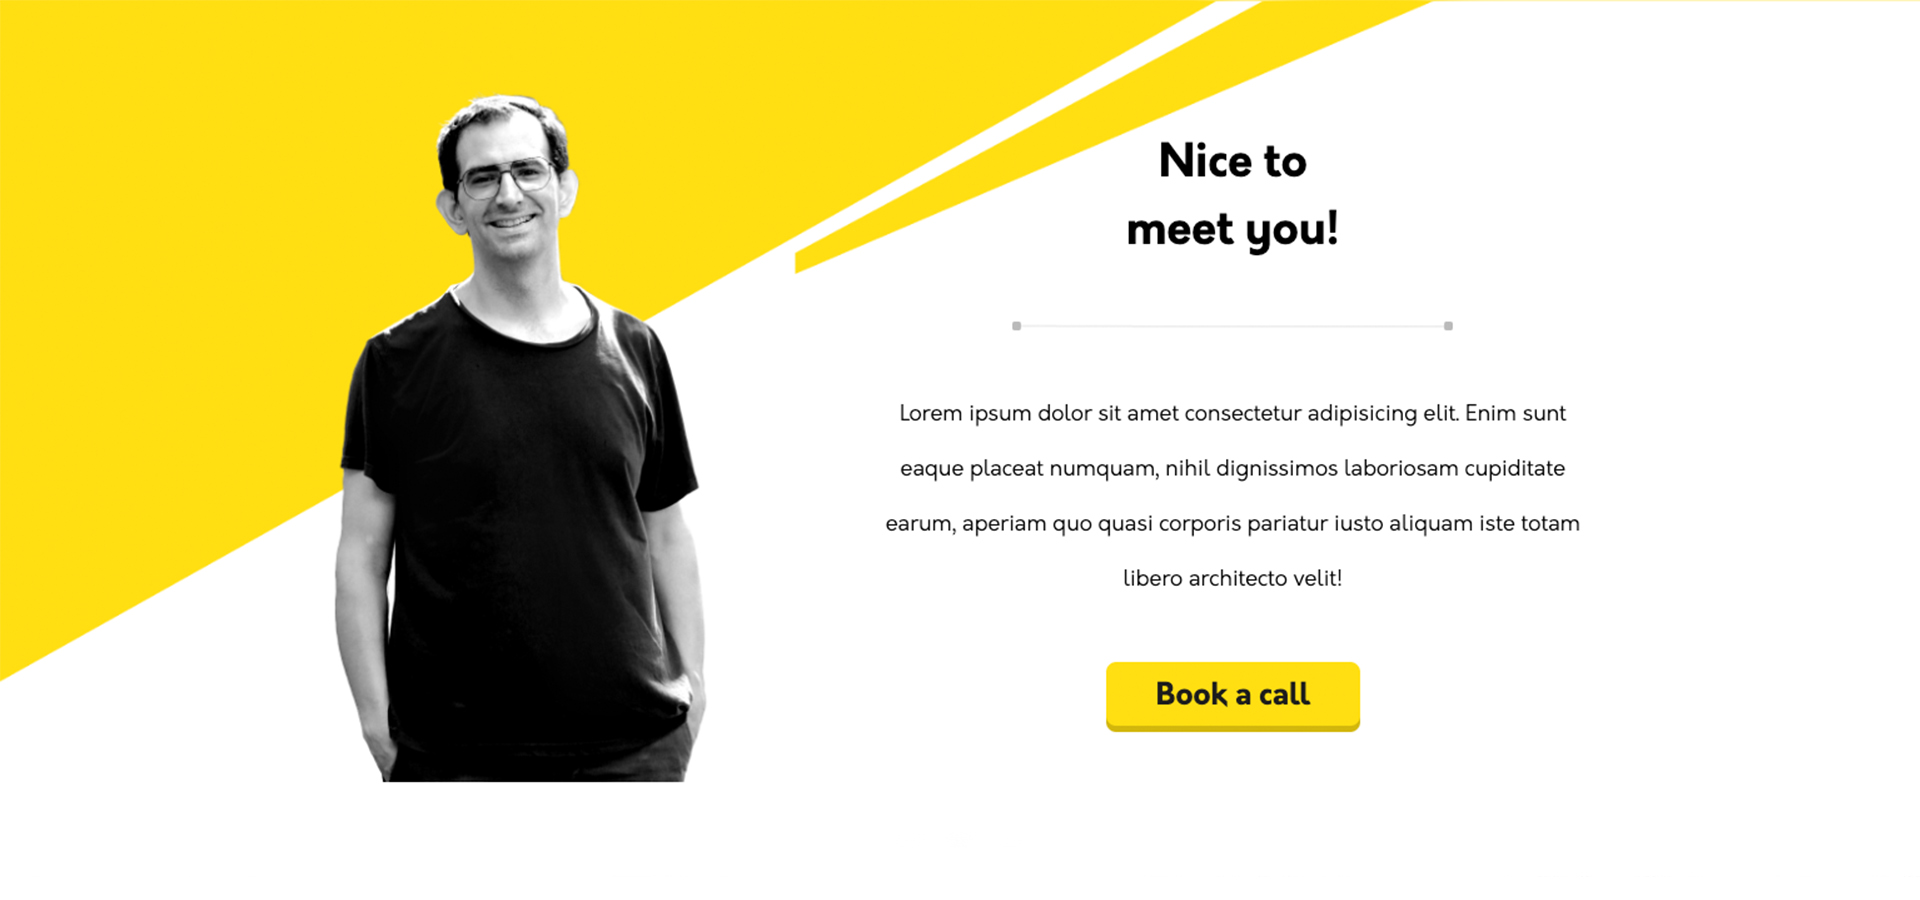
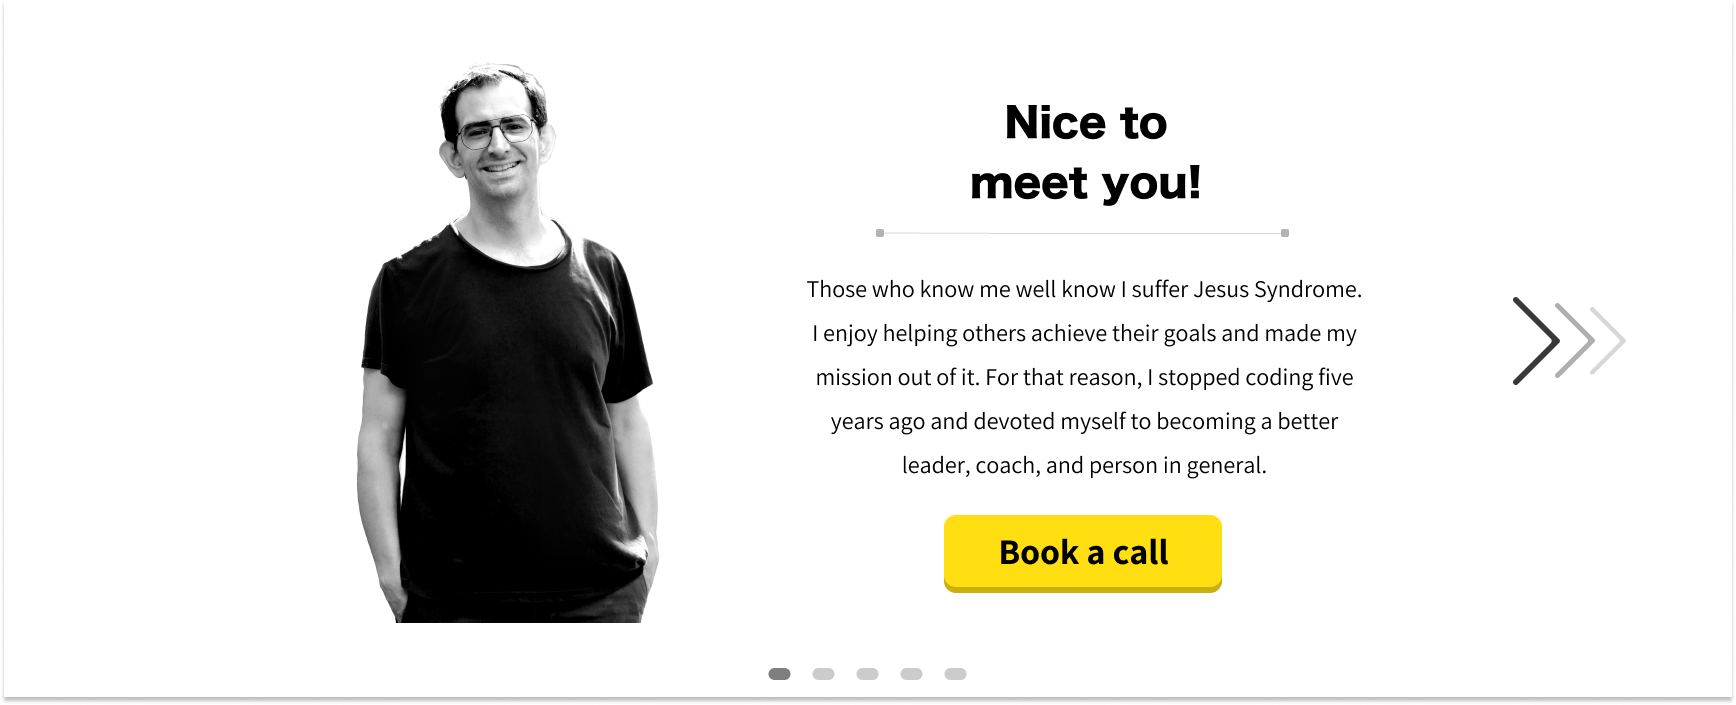
latest updates

diff --git a/src/constants/data.js b/src/constants/data.js
@@ -17,20 +17,22 @@ export const slides = [
         caption: 'false'
     }
 ]
-export const sections = [
+    const section1 = 
     {
-        title: 'Life Coaching',
-        content: 'Life coaching is a powerful tool for those seeking guidance and support in achieving their personal and professional goals. As a certified life coach, I offer a personalized approach to help you overcome obstacles, gain clarity, and create an action plan to reach your full potential. Together, we will work on enhancing your self-awareness, developing new skills, and fostering positive habits that will lead to a fulfilling and meaningful life. Let me support you on your journey towards success and happiness.',
-        image: images.lifecoaching
-    },
+        title1: 'Life Coaching',
+        content1: 'Life coaching is a powerful tool for those seeking guidance and support in achieving their personal and professional goals. As a certified life coach, I offer a personalized approach to help you overcome obstacles, gain clarity, and create an action plan to reach your full potential. Together, we will work on enhancing your self-awareness, developing new skills, and fostering positive habits that will lead to a fulfilling and meaningful life. Let me support you on your journey towards success and happiness.',
+        image1: images.lifecoaching
+    }
+    const section2 = 
     {
-        title: 'Executive coaching',
-        content: 'As a certified coach, I provide a tailored approach to support business leaders in reaching their full potential and achieving their goals. Through personalized coaching sessions, we will work on enhancing leadership skills, improving communication, and increasing productivity. I will help you develop a strategic plan for success, manage stress and uncertainty, and navigate complex business challenges. Let me guide you towards becoming the best version of yourself as a leader and achieving your professional aspirations.',
-        image: images.executivecoaching
-    },
+        title2: 'Executive coaching',
+        content2: 'As a certified coach, I provide a tailored approach to support business leaders in reaching their full potential and achieving their goals. Through personalized coaching sessions, we will work on enhancing leadership skills, improving communication, and increasing productivity. I will help you develop a strategic plan for success, manage stress and uncertainty, and navigate complex business challenges. Let me guide you towards becoming the best version of yourself as a leader and achieving your professional aspirations.',
+        image2: images.executivecoaching
+    }
+    const section3 = 
     {
-        title: 'About me',
-        content: 
+        title3: 'About me',
+        content3: 
         <div>
             <p>Those who know me well know I suffer Jesus Syndrome. I enjoy helping others achieve their goals and made my mission out of it. For that reason, I stopped coding five years ago and devoted myself to becoming a better leader, coach, and person in general.</p> <br/>
             <p>My education consisted of Multimedia Engineering, specializing in Videogames.</p> <br/>
@@ -38,8 +40,33 @@ export const sections = [
             <p>I did not write a book yet but planted many trees and had one wonderful kid.</p> 
         </div>,
 
-        image: images.aboutme
+        image3: images.aboutme
     }
-]
+    const testimonials = 
+    {
+        title: 'Testimonials',
+        content: 'Coaching has been a life-changing experience for me. Through the process, I gained a deeper understanding of my strengths and weaknesses, developed new skills, and discovered opportunities for growth. My coach was a supportive and non-judgmental guide who helped me overcome obstacles, stay focused, and remain accountable. As a result of coaching, I feel more confident, motivated, and empowered to pursue my goals. I highly recommend coaching to anyone seeking to improve their personal or professional life. The benefits are truly transformative.',
+        image: images.testimonials
+    }
+    export const sections = {section1, section2, section3, testimonials};
+    
+    // {
+    //     title: 'Executive coaching',
+    //     content: 'As a certified coach, I provide a tailored approach to support business leaders in reaching their full potential and achieving their goals. Through personalized coaching sessions, we will work on enhancing leadership skills, improving communication, and increasing productivity. I will help you develop a strategic plan for success, manage stress and uncertainty, and navigate complex business challenges. Let me guide you towards becoming the best version of yourself as a leader and achieving your professional aspirations.',
+    //     image: images.executivecoaching
+    // },
+    // {
+    //     title: 'About me',
+    //     content: 
+    //     <div>
+    //         <p>Those who know me well know I suffer Jesus Syndrome. I enjoy helping others achieve their goals and made my mission out of it. For that reason, I stopped coding five years ago and devoted myself to becoming a better leader, coach, and person in general.</p> <br/>
+    //         <p>My education consisted of Multimedia Engineering, specializing in Videogames.</p> <br/>
+    //         <p>In my professional journey, I’ve led teams of all sorts and sizes across different countries, mostly in the game industry. I have also coached individuals based on co-active coaching and I keep myself active as a college lecturer at Universitat Tecnocampus Mataró.</p> <br/>
+    //         <p>I did not write a book yet but planted many trees and had one wonderful kid.</p> 
+    //     </div>,
+
+    //     image: images.aboutme
+    // }
+
 // export const carouselImages = [images.transparent];
 

diff --git a/src/components/Contact.jsx b/src/components/Contact.jsx
@@ -27,7 +27,7 @@ const Contact = () => {
         <div>
             <div className="contact hidden sm:flex flex-row justify-between font-OrkneyRegular text-[#111111] h-[6rem] lg:h-[3rem] md:px-[2rem] lg:px-[6rem] xl:px-[12rem]">
                     <div className="contact__phone flex flex-1 gap-2 items-center justify-center hover:opacity-50 cursor-pointer">
-                        <img  src={images.whatsapp} className='hover:opacity-50 cursor-pointer w-[25px]'/>
+                        <img  src={images.whatsapp} alt="whatsup" className='hover:opacity-50 cursor-pointer w-[25px]'/>
                         <p>+34 665487981</p>
                     </div>
                     <div className="contact__email flex-1 flex items-center justify-center gap-2 hover:opacity-50 cursor-pointer">
@@ -35,15 +35,15 @@ const Contact = () => {
                         <p className="text-[16px] tracking-wide">xavier.figueras.garcia@gmail.com</p>
                     </div>
                     <div className="contact__social flex-1 flex justify-center md:pb-0 items-center gap-8 order-first md:order-last">  
-                        <img src={images.instagram} className='hover:opacity-50 cursor-pointer w-[25px]'/>          
-                        <img src={images.linkedin} className='hover:opacity-50 cursor-pointer w-[25px]'/> 
-                        <img src={images.facebook} className='hover:opacity-50 cursor-pointer w-[25px] self-center'/> 
+                        <img src={images.instagram} alt="instagram" className='hover:opacity-50 cursor-pointer w-[25px]'/>          
+                        <img src={images.linkedin}  alt="linkedin" className='hover:opacity-50 cursor-pointer w-[25px]'/> 
+                        <img src={images.facebook}  alt="facebook" className='hover:opacity-50 cursor-pointer w-[25px] self-center'/> 
                     </div>
             </div>
             <div className="contact-mobile px-[1rem] flex sm:hidden justify-between items-end font-OrkneyRegular text-[#111111] h-[2.5rem]">
                     <div className="contact__phone flex gap-3 items-center justify-center">
                         <div ref={whatsappRef} className="flex gap-1"> 
-                            <div onClick={toggleWhatsappNumber} ><img src={images.whatsapp} className='hover:opacity-50 cursor-pointer w-[25px]'/></div>
+                            <div onClick={toggleWhatsappNumber} ><img src={images.whatsapp}  alt="wahtsapp" className='hover:opacity-50 cursor-pointer w-[25px]'/></div>
                             {whatsappNumber && (
                             <div className="whatsappNumber">93888155</div>
                             )}
@@ -60,9 +60,9 @@ const Contact = () => {
                     </div>
                     
                     <div className="contact__social flex justify-center md:pb-0 items-center gap-3 order-first md:order-last">  
-                        <img src={images.instagram} className='hover:opacity-50 cursor-pointer w-[25px]'/>          
-                        <img src={images.linkedin} className='hover:opacity-50 cursor-pointer w-[25px]'/> 
-                        <img src={images.facebook} className='hover:opacity-50 cursor-pointer w-[25px] self-center'/> 
+                        <img src={images.instagram}  alt="instagram"  className='hover:opacity-50 cursor-pointer w-[25px]'/>          
+                        <img src={images.linkedin}  alt="linkedin"  className='hover:opacity-50 cursor-pointer w-[25px]'/> 
+                        <img src={images.facebook}  alt="facebook" className='hover:opacity-50 cursor-pointer w-[25px] self-center'/> 
                     </div>
             </div>
         </div>

diff --git a/src/App.jsx b/src/App.jsx
@@ -1,4 +1,3 @@
-import images from './constants/images';
 import Contact from './components/Contact';
 import Nav from './components/Nav';
 // import Nav from './containers/test';
@@ -8,10 +7,11 @@ import Certification from './containers/Certification';
 import Testimonial from './containers/Testimonial';
 import Newsletter from './containers/Newsletter';
 import Footer from './containers/Footer';
-import Blog from './containers/Blog';
+import BackToTopButton from './components/BackToTopButton';
 function App() {
+  
   return (
-    <div className="relative m-auto max-w-screen-2xl bg-bgBody bg-no-repeat h-screen" id='nav' >
+    <div className="relative m-auto max-w-screen-2xl bg-bgBody bg-no-repeat" id='nav' >
         <div className='navWrapper sticky top-0 z-20 backdrop-blur-md bg-yellow/25'>
           <Contact />
           <Nav />
@@ -25,7 +25,7 @@ function App() {
         <div className='certificationWrapper relative z-10'>
           <Certification />
         </div>
-        <div className='testimonialWrapper relative z-10 -mt-40 sm:-mt-0'>
+        <div className='testimonialWrapper relative z-10 '>
           <Testimonial />
         </div>
         <div className='newsletterWrapper relative z-10'>
@@ -34,10 +34,7 @@ function App() {
       <div className='footerWrapper relative z-10'>
         <Footer />
       </div>
-      
-      <div className="scrollUp flex sm:hidden self-end mt-4 mb-16 cursor-pointer fixed z-30 -bottom-12 right-0">
-          <a href="#nav"><img src={images.scrollUp}/></a>
-      </div>
+      <BackToTopButton/>
     </div>
 
     

diff --git a/src/containers/Testimonial.jsx b/src/containers/Testimonial.jsx
@@ -1,9 +1,14 @@
 import images from "../constants/images";
 import Section from "../components/Section";
+import { sections } from "../constants/data";
 const Testimonial = () => {
     return (
         <div className="testimonials">
-            <Section title={'Testimonials'} image={images.testimonials} content={"Coaching has been a life-changing experience for me. Through the process, I gained a deeper understanding of my strengths and weaknesses, developed new skills, and discovered opportunities for growth. My coach was a supportive and non-judgmental guide who helped me overcome obstacles, stay focused, and remain accountable. As a result of coaching, I feel more confident, motivated, and empowered to pursue my goals. I highly recommend coaching to anyone seeking to improve their personal or professional life. The benefits are truly transformative."} />
+            <img src={images.headerBG} alt="headerBG"/>
+            <div className="bg-yellow">
+                <Section  title={sections.testimonials.title} content={sections.testimonials.content} image={sections.testimonials.image} />
+            </div>
+            <img src={images.footerBG} alt="footerBG"/>
         </div>
        
     )

diff --git a/src/containers/HomeSection.jsx b/src/containers/HomeSection.jsx
@@ -1,12 +1,22 @@
-
+import images from "../constants/images";
 import { sections } from "../constants/data";
 import Section from "../components/Section";
 const HomeSection = () => {
     return (
         <div>
-            {sections.map((section, index)=>(
-                <Section key={index} title={section.title} content={section.content} image={section.image} />
-            ))}
+            <div>
+                <Section  title={sections.section1.title1} content={sections.section1.content1} image={sections.section1.image1} />
+            </div>
+            <div className="section2">
+                <img src={images.headerBG} alt="headerBG"/>
+                <div className="bg-yellow">
+                    <Section  title={sections.section2.title2} content={sections.section2.content2} image={sections.section2.image2} />
+                </div>
+                <img src={images.footerBG} alt="footerBG"/>
+            </div>
+            <div className="section3">
+                <Section  title={sections.section3.title3} content={sections.section3.content3} image={sections.section3.image3} />
+            </div>
         </div>
     )
 }

diff --git a/src/components/Nav.jsx b/src/components/Nav.jsx
@@ -1,8 +1,7 @@
-import {FaUserCircle, FaCaretDown, FaAngleRight, FaEnvelope, FaFacebook} from "react-icons/fa";
+import {FaCaretDown, FaAngleRight} from "react-icons/fa";
 import images from "../constants/images";
 import { useState } from "react";
 import React, {useRef, useEffect} from "react";
-import { Prev } from "react-bootstrap/esm/PageItem";
 import { translations } from "../constants/languageData";
 
 const Nav = () => {
@@ -55,7 +54,7 @@ const Nav = () => {
     
     return (
         <div className="Wrapper">
-            <nav className='nav hidden sm:flex justify-between px-[1rem] h-[4rem] lg:h-[6rem] md:px-[4rem] xl:px-[6rem] relative mt-[-5px] md:mt-[-10px]'>
+            <nav className='nav hidden sm:flex justify-between px-[1rem] h-[4rem] lg:pt-12 lg:pb-8 md:px-[4rem] xl:px-[6rem] relative mt-[-5px] md:mt-[-10px]'>
                 <div className="logo flex items-center w-[9rem] md:w-[18rem] cursor-pointer">
                     <img src={images.newLogo} className='logo' alt="logo"/> 
                 </div>

diff --git a/src/components/BackToTopButton.jsx b/src/components/BackToTopButton.jsx
@@ -1,0 +1,36 @@
+import React from "react";
+import { useState, useEffect } from "react";
+import images from "../constants/images";
+
+const BackToTopButton = () => {
+    const [backToTopButton, setBackToTopButton] = useState(false);
+
+    useEffect(()=>{
+        window.addEventListener("scroll", ()=>{
+            if(window.scrollY>150){
+                setBackToTopButton(true)
+            } else{
+                setBackToTopButton(false);
+            }
+        })
+    }, [])
+
+    const scrollUp = () =>{
+        window.scrollTo({
+            top:0,
+            behavior: "smooth"
+        })
+    }
+    return (
+        <div>
+            {backToTopButton && (
+            <div onClick={scrollUp} className="scrollUp flex sm:hidden self-end mt-4 mb-16 cursor-pointer fixed z-30 -bottom-12 right-0">
+                <button><img src={images.scrollUp} alt="scrollUp Button"/></button>
+            </div>
+        )}
+        </div>
+    
+        )
+}
+export default BackToTopButton;
+

diff --git a/src/constants/images.js b/src/constants/images.js
@@ -23,6 +23,8 @@ import testimonials from '../images/testimonials.png';
 import signIn from '../images/signIn.png';
 import Email from '../images/Email.png';
 import scrollUp from '../images/scrollUp.png';
+import headerBG from '../images/headerBG.png';
+import footerBG from '../images/footerBG.png';
 const images = {
     Logo,
     newLogo,
@@ -48,7 +50,9 @@ const images = {
     testimonials,
     signIn,
     Email,
-    scrollUp
+    scrollUp,
+    headerBG,
+    footerBG
 };
 
 export default images;
